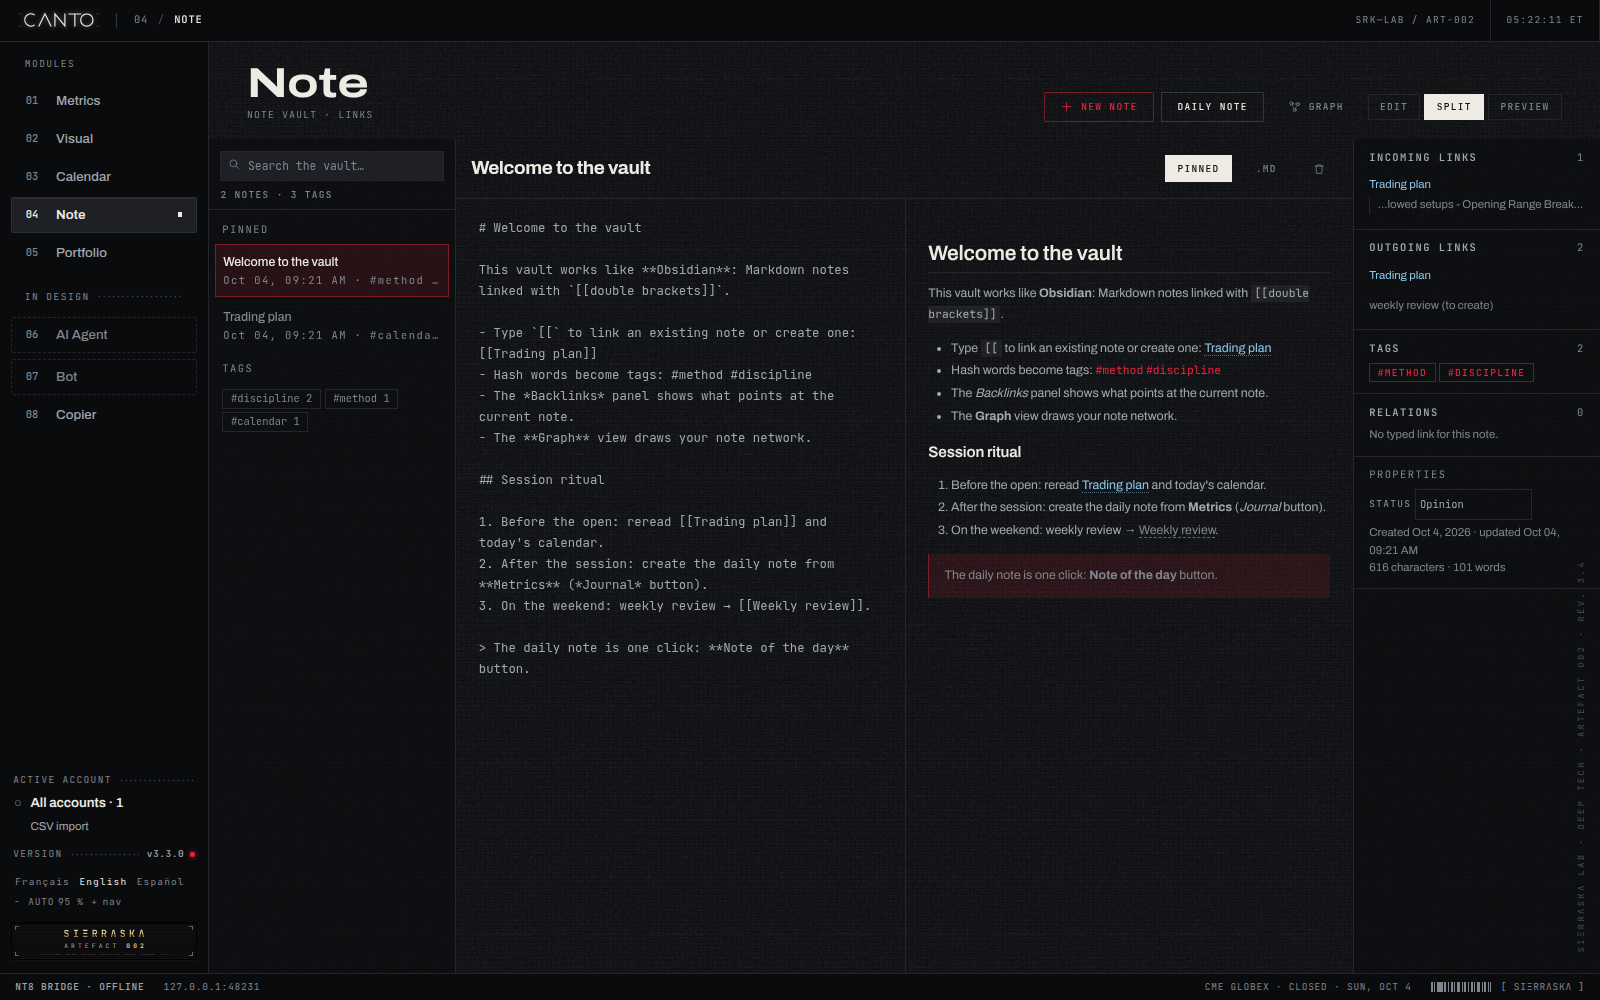
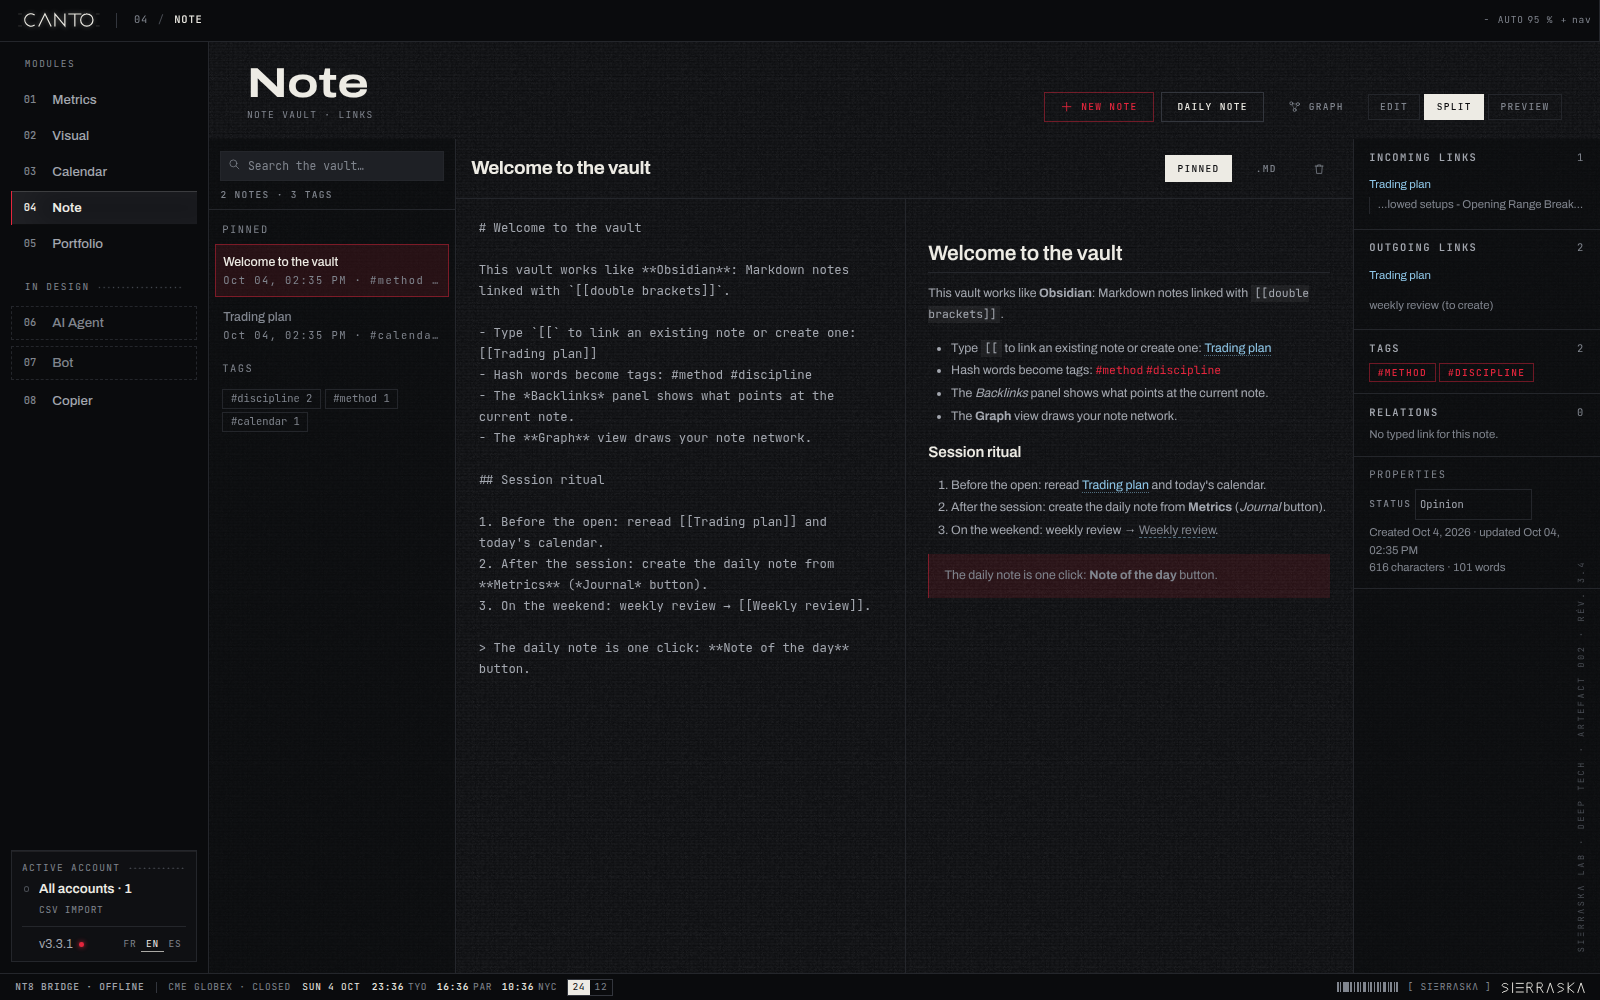
Release 3.3.1 (#69)
* chore(release): 3.3.1

Le journal, les installeurs et le README passent en 3.3.1. Les captures montrent le chrome actuel : zoom, heures de séance, plaque du compte.

* fix(desk): retire la plaque et ferme la signature

Le cadre du compte prend la place de la plaque en bas du rail. Neuf glyphes, S I Ξ R R Λ S K Λ, suivent le code-barres et le nom.

---------

diff --git a/src/design/SignatureGlyphs.tsx b/src/design/SignatureGlyphs.tsx
@@ -1,0 +1,61 @@
+import s from './signatureGlyphs.module.css';
+
+/**
+ * Signature du Lab, neuf glyphes : S I Ξ R R Λ S K Λ.
+ * Même main que le logotype — trait carré, capitale alignée — à l'échelle de la barre d'état.
+ * Le nom typographié reste à côté ; ces tracés sont la marque, pas une seconde lecture.
+ */
+
+const CAP = 1.15;
+const BASE = 12.85;
+const MID = 7;
+
+interface Glyph {
+  ch: string;
+  w: number;
+  d: string;
+}
+
+const S = `M8.35 3.2 C8.35 1.05 1.45 0.95 1.45 4.2 C1.45 6.9 8.55 6 8.55 8.9 C8.55 11.9 1.45 11.15 1.45 ${BASE}`;
+const I = `M1.1 ${CAP} V${BASE}`;
+const XI = `M0.35 1.7 H8.85 M0.35 ${MID} H8.85 M0.35 12.3 H8.85`;
+const R = `M1.1 ${BASE} V${CAP} H5.35 C8.2 ${CAP} 8.2 6.55 5.35 6.55 H1.1 M4.4 6.55 L8.25 ${BASE}`;
+const LAMBDA = `M0.7 ${BASE} L4.6 ${CAP} L8.5 ${BASE}`;
+const K = `M1.1 ${CAP} V${BASE} M1.1 ${MID} L8.15 ${CAP} M1.1 ${MID} L8.15 ${BASE}`;
+
+/** Neuf glyphes, largeurs optiques : le I est un fût, les autres tiennent la même chasse. */
+const GLYPHS: readonly Glyph[] = [
+  { ch: 'S', w: 10, d: S },
+  { ch: 'I', w: 2.2, d: I },
+  { ch: 'Ξ', w: 9.2, d: XI },
+  { ch: 'R', w: 9.4, d: R },
+  { ch: 'R', w: 9.4, d: R },
+  { ch: 'Λ', w: 9.2, d: LAMBDA },
+  { ch: 'S', w: 10, d: S },
+  { ch: 'K', w: 9.2, d: K },
+  { ch: 'Λ', w: 9.2, d: LAMBDA },
+];
+
+const GAP = 3.15;
+
+function layout() {
+  let x = 0;
+  const placed = GLYPHS.map((glyph) => {
+    const at = x;
+    x += glyph.w + GAP;
+    return { ...glyph, x: at };
+  });
+  return { placed, width: x - GAP };
+}
+
+const MARK = layout();
+
+export function SignatureGlyphs() {
+  return (
+    <svg className={s.mark} viewBox={`0 0 ${MARK.width} 14`} fill="none" aria-hidden>
+      {MARK.placed.map((glyph, index) => (
+        <path key={`${glyph.ch}-${index}`} d={glyph.d} transform={`translate(${glyph.x} 0)`} />
+      ))}
+    </svg>
+  );
+}

diff --git a/tests/changelog.test.ts b/tests/changelog.test.ts
@@ -43,9 +43,9 @@ describe('journal des versions', () => {
     expect(versions).toEqual(sorted);
   });
 
-  it('entriesSince(2.2.1) renvoie 3.0.0, 3.1.0, 3.2.0, 3.2.1, 3.2.2 puis 3.3.0', () => {
-    expect(entriesSince('2.2.1').map((entry) => entry.version)).toEqual(['3.0.0', '3.1.0', '3.2.0', '3.2.1', '3.2.2', '3.3.0']);
-    expect(entriesSince('v2.2.1').map((entry) => entry.version)).toEqual(['3.0.0', '3.1.0', '3.2.0', '3.2.1', '3.2.2', '3.3.0']);
+  it('entriesSince(2.2.1) renvoie 3.0.0 jusqu’à 3.3.1', () => {
+    expect(entriesSince('2.2.1').map((entry) => entry.version)).toEqual(['3.0.0', '3.1.0', '3.2.0', '3.2.1', '3.2.2', '3.3.0', '3.3.1']);
+    expect(entriesSince('v2.2.1').map((entry) => entry.version)).toEqual(['3.0.0', '3.1.0', '3.2.0', '3.2.1', '3.2.2', '3.3.0', '3.3.1']);
     expect(entryFor('3.1.0')?.kind).toBe('fonctionnalite');
     expect(entryFor('3.2.0')?.kind).toBe('fonctionnalite');
     expect(entryFor('3.2.0')?.date).toBe('2026-09-29');
@@ -58,6 +58,9 @@ describe('journal des versions', () => {
     expect(entryFor('3.2.2')?.highlights.es).toHaveLength(4);
     expect(entryFor('3.3.0')?.kind).toBe('fonctionnalite');
     expect(entryFor('3.3.0')?.highlights.fr).toHaveLength(5);
+    expect(entryFor('3.3.1')?.kind).toBe('correctif');
+    expect(entryFor('3.3.1')?.date).toBe('2026-10-04');
+    expect(entryFor('3.3.1')?.highlights.fr).toHaveLength(5);
     expect(entryFor('3.0.1')).toBeNull();
   });
 

diff --git a/tests/rail-3.2.2.test.ts b/tests/rail-3.2.2.test.ts
@@ -14,7 +14,7 @@ describe('rail 3.2.2', () => {
   });
 
   it('la version quitte la barre d’état pour le rail, sous le compte', () => {
-    const rail = between(shell, '<div className={s.railFoot}>', '<PlaqueSignature');
+    const rail = between(shell, '<div className={s.railFoot}>', '</aside>');
     expect(rail.indexOf('COMPTE ACTIF')).toBeLessThan(rail.indexOf('<ChangelogJournal'));
     expect(between(shell, '<footer', '</footer>')).not.toContain('ChangelogJournal');
   });
@@ -39,8 +39,12 @@ describe('rail 3.2.2', () => {
     const right = between(status, 'statusRight', '</footer>');
     expect(right).toContain('Barcode');
     expect(right).toContain('SIΞRRΛSKΛ');
+    expect(right).toContain('<SignatureGlyphs />');
+    expect(right.indexOf('Barcode')).toBeLessThan(right.indexOf('SIΞRRΛSKΛ'));
+    expect(right.indexOf('SIΞRRΛSKΛ')).toBeLessThan(right.indexOf('<SignatureGlyphs />'));
     expect(right).not.toContain('CME GLOBEX');
-    expect(between(shell, '<div className={s.railFoot}>', '<PlaqueSignature')).not.toContain('ZoomControls');
+    expect(between(shell, '<div className={s.railFoot}>', '</aside>')).not.toContain('PlaqueSignature');
+    expect(between(shell, '<div className={s.railFoot}>', '</aside>')).not.toContain('ZoomControls');
   });
 
   it('la plaque signature est gravée à 40 px', () => {

diff --git a/tests/signature-glyphs.test.ts b/tests/signature-glyphs.test.ts
@@ -1,0 +1,36 @@
+/**
+ * @vitest-environment jsdom
+ */
+import { createElement } from 'react';
+import { act } from 'react';
+import { createRoot, type Root } from 'react-dom/client';
+import { afterEach, describe, expect, it } from 'vitest';
+import { SignatureGlyphs } from '@/design/SignatureGlyphs';
+
+let root: Root | null = null;
+let host: HTMLElement | null = null;
+
+function mount() {
+  host = document.createElement('div');
+  document.body.append(host);
+  root = createRoot(host);
+  act(() => root!.render(createElement(SignatureGlyphs)));
+  return host;
+}
+
+afterEach(() => {
+  act(() => root?.unmount());
+  host?.remove();
+  root = null;
+  host = null;
+});
+
+describe('signature, neuf glyphes', () => {
+  it('trace S I Ξ R R Λ S K Λ, rien d’autre', () => {
+    const el = mount();
+    const paths = el.querySelectorAll('path');
+    expect(paths).toHaveLength(9);
+    expect(el.querySelector('svg')?.getAttribute('aria-hidden')).toBe('true');
+    expect(el.textContent).toBe('');
+  });
+});

diff --git a/src/app/Shell.tsx b/src/app/Shell.tsx
@@ -1,6 +1,6 @@
 import { Fragment, useEffect, useMemo, useState, type ReactNode } from 'react';
 import { Barcode, Button, Led, cx } from '@/design/primitives';
-import { PlaqueSignature } from '@/design/PlaqueSignature';
+import { SignatureGlyphs } from '@/design/SignatureGlyphs';
 import { Wordmark } from '@/design/Wordmark';
 import { Modal } from '@/design/Modal';
 import { BRIDGE_MAX_AGE_MS } from '@/engine/portfolio/types';
@@ -241,7 +241,6 @@ export function Shell({ children, revealed = true, inert = false }: { children: 
               </div>
             </div>
           </div>
-          <PlaqueSignature className={s.signature} />
         </div>
       </aside>
 
@@ -307,6 +306,7 @@ export function Shell({ children, revealed = true, inert = false }: { children: 
           <span className={s.sigEnd}>
             <Barcode />
             <span>[ SIΞRRΛSKΛ ]</span>
+            <SignatureGlyphs />
           </span>
         </div>
       </footer>

diff --git a/tests/release-notes.test.ts b/tests/release-notes.test.ts
@@ -22,7 +22,7 @@ describe('notes de Release', () => {
     const source = JSON.parse(readFileSync(path.join(root, 'src', 'engine', 'changelog', 'changelog.json'), 'utf8')) as { entries: unknown[] };
     expect(published.schemaVersion).toBe(1);
     expect(published.entries).toHaveLength(source.entries.length);
-    expect(published.entries.at(-1)?.version).toBe('3.3.0');
+    expect(published.entries.at(-1)?.version).toBe('3.3.1');
     const text = readFileSync(notes, 'utf8');
     expect(text).toContain('### Français');
     expect(text).toContain('### English');

diff --git a/src/app/shell.module.css b/src/app/shell.module.css
@@ -159,7 +159,7 @@
   min-width: 0;
   min-height: 0;
   overflow: hidden;
-  padding: 16px 12px 14px;
+  padding: 16px 12px 12px;
   gap: 14px;
 }
 
@@ -284,7 +284,6 @@
   margin-top: auto;
   display: flex;
   flex-direction: column;
-  gap: 12px;
 }
 
 /* Compte actif, à même le rail : un intitulé à pointillés, un voyant, le nom, la source. */
@@ -389,9 +388,6 @@
   box-shadow: inset 0 -1px 0 rgba(237, 235, 228, 0.7);
 }
 
-.signature {
-  margin-top: 2px;
-}
 .main {
   grid-area: main;
   position: relative;

diff --git a/tests/plaque-signature.test.ts b/tests/plaque-signature.test.ts
@@ -58,7 +58,7 @@ describe('PlaqueSignature', () => {
 
   it('le rail ne garde aucune trace de l’ancienne signature', () => {
     const shell = readFileSync('src/app/Shell.tsx', 'utf8');
-    expect(shell).toContain('<PlaqueSignature');
+    expect(shell).not.toContain('<PlaqueSignature');
     expect(shell).not.toMatch(/DEEP TECH LAB|001 OS|DotGrid/);
   });
 

diff --git a/src/design/signatureGlyphs.module.css b/src/design/signatureGlyphs.module.css
@@ -1,0 +1,12 @@
+/* Neuf glyphes, 12 px de haut, alignés sur la ligne de la barre d'état. */
+.mark {
+  display: block;
+  height: 12px;
+  width: auto;
+  flex: none;
+  color: var(--text-0);
+  stroke: currentColor;
+  stroke-width: 1.15;
+  stroke-linecap: square;
+  stroke-linejoin: miter;
+}

diff --git a/README.md b/README.md
@@ -2,13 +2,13 @@
 
 <br/>
 
-**`SIΞRRΛSKΛ—LAB · CΛNTO · ARTEFACT 002 · REV. V3.3.0 · DESK OUTPUT`**
+**`SIΞRRΛSKΛ—LAB · CΛNTO · ARTEFACT 002 · REV. V3.3.1 · DESK OUTPUT`**
 
 # CΛNTO
 
 ### A local trading desk for CME Group futures (Nasdaq, S&P, Russell, Dow, crude, gold, euro FX)
 
-An artefact from **SIΞRRΛSKΛ Lab** — a local desk for prop-firm traders: quantitative journal, NinjaTrader 8 bridge, official calendar, notes, portfolio, and a Copier that replicates in simulation. **v3.3.0** installs natively on **macOS, Windows, and Linux**. Data stays on the machine. On arrival the desk stays closed until it opens.
+An artefact from **SIΞRRΛSKΛ Lab** — a local desk for prop-firm traders: quantitative journal, NinjaTrader 8 bridge, official calendar, notes, portfolio, and a Copier that replicates in simulation. **v3.3.1** installs natively on **macOS, Windows, and Linux**. Data stays on the machine. On arrival the desk stays closed until it opens.
 
 > The code is under the [MIT license](LICENSE). The names CΛNTO and SIΞRRΛSKΛ, and the visual identity, are not granted by this license.
 
@@ -59,7 +59,7 @@ An artefact from **SIΞRRΛSKΛ Lab** — a local desk for prop-firm traders: qu
 
 CΛNTO is the Lab’s **local desk** for **prop-firm traders** and **CME Group futures**, next to NinjaTrader 8. One Electron window, eight modules on the rail, one IndexedDB vault — nothing leaves the machine. The Copier replicates in simulation and starts disarmed. On arrival the desk stays closed; it opens onto the modules only after that.
 
-| Module | In 3.3.0 |
+| Module | In 3.3.1 |
 |---|---|
 | `01 · MET` Metrics | Journal, prop replay, Monte Carlo |
 | `02 · VIS` Visual | Registry candles, indicators, live bars when the NT8 bridge is connected |
@@ -86,19 +86,19 @@ CΛNTO is the Lab’s **local desk** for **prop-firm traders** and **CME Group f
 
 ## Get started
 
-**v3.3.0** is the current release: the execution port, the Copier on the rail as `08 · CPY`, note branches, and a desk that stays closed on arrival. The application installs without cloning the repository. The C# AddOn is **not compiled inside NinjaTrader 8 by this repository**. On Windows, copy `CantoBridge.cs` into the NinjaTrader AddOns folder and compile it (F5).
+**v3.3.1** is the current release: a lighter title bar, session clocks for Tokyo, Paris, and New York, the account plate in the rail, and an opening that draws Desk Unlocked before the desk splits. It keeps the execution port, the Copier on the rail as `08 · CPY`, note branches, and a desk that stays closed on arrival. The application installs without cloning the repository. The C# AddOn is **not compiled inside NinjaTrader 8 by this repository**. On Windows, copy `CantoBridge.cs` into the NinjaTrader AddOns folder and compile it (F5).
 
 | OS | Installer | What you get |
 |---|---|---|
-| **macOS** 12+ (Apple silicon and Intel) | `CANTO-3.3.0-mac-universal.dmg` | Application in `/Applications`. The file bridge lives in the desk. |
-| **Windows** 10 / 11 (x64 and ARM) | `CANTO-3.3.0-win-x64-setup.exe` (or `arm64`) | NSIS wizard (choose the folder, shortcut). Portable: `CANTO-3.3.0-win-x64-portable.exe`. |
-| **Linux** x64 and ARM64 | `CANTO-3.3.0-linux-x86_64.AppImage` or `CANTO-3.3.0-linux-amd64.deb` | ARM64: `linux-arm64.AppImage` and `linux-arm64.deb`. |
+| **macOS** 12+ (Apple silicon and Intel) | `CANTO-3.3.1-mac-universal.dmg` | Application in `/Applications`. The file bridge lives in the desk. |
+| **Windows** 10 / 11 (x64 and ARM) | `CANTO-3.3.1-win-x64-setup.exe` (or `arm64`) | NSIS wizard (choose the folder, shortcut). Portable: `CANTO-3.3.1-win-x64-portable.exe`. |
+| **Linux** x64 and ARM64 | `CANTO-3.3.1-linux-x86_64.AppImage` or `CANTO-3.3.1-linux-amd64.deb` | ARM64: `linux-arm64.AppImage` and `linux-arm64.deb`. |
 
 <a id="installer"></a>
 
 ### macOS
 
-1. Download the DMG from the [GitHub Release v3.3.0](https://github.com/0xSrk/C-NTO/releases/tag/v3.3.0), or run `npm run dist:mac` on a Mac.
+1. Download the DMG from the [GitHub Release v3.3.1](https://github.com/0xSrk/C-NTO/releases/tag/v3.3.1), or run `npm run dist:mac` on a Mac.
 2. Open the DMG and drag **CΛNTO** into **Applications**.
 3. First launch: right-click the app › **Open** (the DMG is not Apple-signed; Gatekeeper asks for this confirmation once).
 4. The launcher, then the desk, open. Metrics › NinjaTrader bridge creates `~/Documents/NinjaTrader 8/export/CANTO` and watches it.
@@ -109,9 +109,9 @@ From source (development): double-click `CANTO.command`, or `chmod +x CANTO.sh &
 
 ### Windows
 
-1. Run `CANTO-3.3.0-win-x64-setup.exe` (or `arm64` on Windows ARM).
+1. Run `CANTO-3.3.1-win-x64-setup.exe` (or `arm64` on Windows ARM).
 2. Choose the folder, finish the wizard, and open **CΛNTO** from the Start menu.
-3. No-install variant: `CANTO-3.3.0-win-x64-portable.exe`.
+3. No-install variant: `CANTO-3.3.1-win-x64-portable.exe`.
 4. Metrics › NinjaTrader bridge › default folder `Documents\NinjaTrader 8\export\CANTO`.
 5. Real time: `CantoBridge.cs` ships in `resources/ninjatrader/` next to the executable (sources: `ninjatrader/CantoBridge.cs`). Copy it to `Documents\NinjaTrader 8\bin\Custom\AddOns\`, then NinjaScript Editor › Compile (F5). In the desk, **Write the NinjaTrader configuration** so the AddOn reads `bridge.json` (port and token) and opens the WebSocket. The CSV file is still written in parallel.
 
@@ -121,8 +121,8 @@ From source: double-click `CANTO.cmd`. The Electron binary is downloaded and ext
 
 ### Linux
 
-1. **AppImage** (no system install): `chmod +x CANTO-3.3.0-linux-x86_64.AppImage && ./CANTO-3.3.0-linux-x86_64.AppImage`. ARM64: `CANTO-3.3.0-linux-arm64.AppImage`.
-2. **Debian / Ubuntu**: `sudo apt install ./CANTO-3.3.0-linux-amd64.deb` (ARM64: `CANTO-3.3.0-linux-arm64.deb`), then launch `canto` or **CΛNTO** from the menu.
+1. **AppImage** (no system install): `chmod +x CANTO-3.3.1-linux-x86_64.AppImage && ./CANTO-3.3.1-linux-x86_64.AppImage`. ARM64: `CANTO-3.3.1-linux-arm64.AppImage`.
+2. **Debian / Ubuntu**: `sudo apt install ./CANTO-3.3.1-linux-amd64.deb` (ARM64: `CANTO-3.3.1-linux-arm64.deb`), then launch `canto` or **CΛNTO** from the menu.
 3. The bridge creates `~/Documents/NinjaTrader 8/export/CANTO`. Same rule as macOS: the AddOn runs inside NinjaTrader 8 on Windows; the Linux desk imports the CSVs from that folder.
 
 From source: `chmod +x CANTO.sh && ./CANTO.sh`.
@@ -179,7 +179,7 @@ Every install opens on the **launcher** — desk language, version check, and th
 
 | State | Behavior |
 |---|---|
-| Up to date | The button shows `v3.3.0` (quiet) |
+| Up to date | The button shows `v3.3.1` (quiet) |
 | Update available | The button turns **amber / yellow** — one click installs and relaunches |
 
 ---
@@ -315,7 +315,7 @@ From Metrics › Sessions › **See in Visual**, one day’s trades are projecte
 
 ### Grid + stream · FOMC / NFP / CPI · day’s notes · overlaid PnL
 
-<img src="docs/media/calendrier.png" alt="CΛNTO — Calendar: September grid, FOMC, beginner notes" width="920"/>
+<img src="docs/media/calendrier.png" alt="CΛNTO — Calendar: October 2026 grid, CPI, day panel" width="920"/>
 
 <sub>October 2026 grid — colored families, journal PnL in the cells, day panel, beginner markers.</sub>
 
@@ -601,6 +601,7 @@ System 3.4 — **[docs/DESIGN.md](docs/DESIGN.md)** (the previous grammar is arc
 
 The journal inside the desk lists the same releases, in French, English, and Spanish.
 
+- 3.3.1 — Lighter title bar, session clocks, account plate, and the Desk Unlocked opening. (2026-10-04)
 - 3.3.0 — Execution port. Copier on the rail as `08 · CPY`, simulation only, disarmed on every launch. A note can branch another. The desk stays closed on arrival. (2026-10-04)
 - 3.2.2 — New icon and logotype. Cleaner menu, thinner Lab signature plate. (2026-09-30)
 - 3.2.1 — Lab signature plate, minus sign kept on negative amounts, installer checksums. (2026-09-30)
@@ -619,7 +620,7 @@ The journal inside the desk lists the same releases, in French, English, and Spa
 
 ## Roadmap
 
-Shipped in 3.3.0: the execution port, simulation replication, and the Copier on the rail.
+Shipped in 3.3.1: the desk chrome and the Desk Unlocked opening. Shipped in 3.3.0: the execution port, simulation replication, and the Copier on the rail.
 
 Still ahead of the desk: the agent remains a prototype, and Bot remains design — it sends no order. The Copier does not follow a real account in this version.
 
@@ -647,6 +648,6 @@ Fonts shipped with the desk (copied next to the launcher at build time, license 
 <div align="center">
 <br/>
 
-**`SIΞRRΛSKΛ—LAB · CΛNTO · ARTEFACT 002 · REV. A · DESK OUTPUT · v3.3.0`**
+**`SIΞRRΛSKΛ—LAB · CΛNTO · ARTEFACT 002 · REV. A · DESK OUTPUT · v3.3.1`**
 
 </div>
